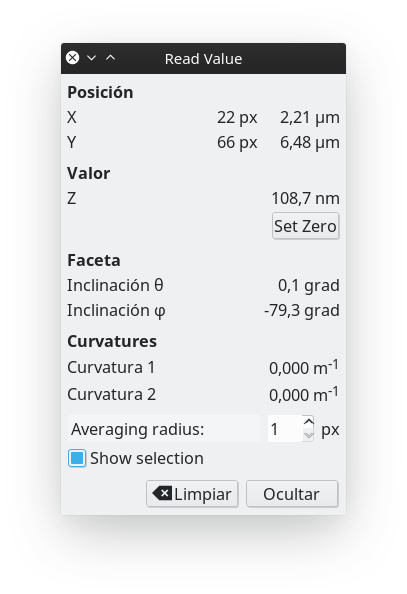
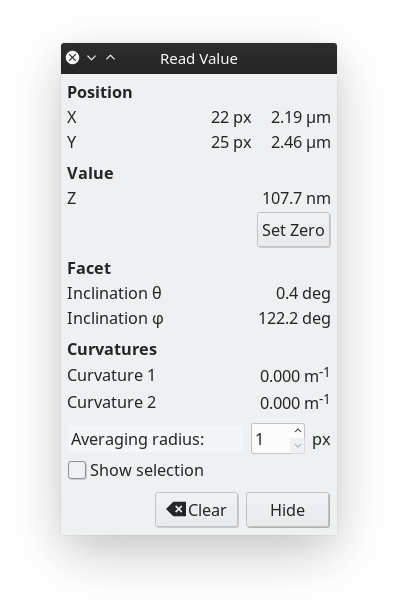
[AFM] Rearrange order. Spanish fig changed. Some rewriting in the theory section (still more to do)

diff --git a/AtomicForceMicroscopy/Report/report.tex b/AtomicForceMicroscopy/Report/report.tex
@@ -28,7 +28,7 @@ Iyán Méndez Veiga\\ \small\texttt{\href{mailto:iyan.mendez-veiga@uni-ulm.de}{i
 \maketitle
 
 \begin{abstract}
-A compact Atomic Force Microscopy (AFM) from Nanosurf company (\href{https://www.nanosurf.com/en/products/naioafm-the-leading-compact-afm}{NaioAFM}) was used to perform measurements of the surface of three samples. Two different operation modes were used: static and tapping mode. Open source software \href{http://gwyddion.net/}{Gwyddion} was used to process the raw data.
+A compact Atomic Force Microscopy (AFM) from Nanosurf company (\href{https://www.nanosurf.com/en/products/naioafm-the-leading-compact-afm}{NaioAFM}) was used to perform measurements of the surface of three samples. Two different operation modes were used: static and tapping mode. Open source software \href{http://gwyddion.net/}{Gwyddion} was used to process the raw data.\\{\color{red} Add Motivation and finings}
 \end{abstract}
 
 \vspace{1.5cm}
@@ -39,13 +39,11 @@ Since it was first developed in 1985 by \emph{Binning} et al., the Atomic Force 
 
 In this report, we will first describe the AFM technique, the two different operation modes that we tried (static and tapping or dynamic mode) and comment the issues we faced. And secondly, we will describe the processing of raw data obtained from the device using the open source software Gwyddion, as well as a general overview of AFM image artifacts, i.e., features which appear in the images that are not present in the original probed object.
 
-\section{Materials and methods}
+\subsection{Theory of AFM}
 
-\subsection{AFM}
+AFM is quite similar to Scanning Tunneling Microscope (STM). The idea is to get 3D images of sample surfaces by using a scanning technique. Main difference between AFM and STM is that AFM can also measure insulators and it is not limited to conductors because the scanning technique does not make use of tunneling currents. Instead, AFM is able to obtain the height by measuring the ultrasmall forces that arise when the tip and the sample surface get very close to each other.
 
-AFM relies on the same idea of Scanning Tunneling Microscope (STM), i.e., using a scanning technique to produce very high resolution, 3D images of sample surfaces. The difference is that instead of measuring tunneling currents, in AFM we measure ultrasmall forces between the tip surface and the sample surface to get the proximity of the tip to the sample, i.e., the height. This allows AFM to measure both conductors and insulators surfaces on an atomic scale.
-
-By ultrasmall forces we mean forces of less than \SI{1}{\nano\N}. How this forces are measured is one of the key aspects of AFM because finding a relation between them and the distance between the tip and the surface will allow us to get a profile of the measured samples. However, this depends on the operation mode.
+The order of magnitude of these forces is less than \SI{1}{\nano\N}. A fixed relation between these forces and the distance between the tip and the sample allows to get the profile of the surface. However, this depends on the operation mode.
 
 \begin{figure}[ht]
 \centering
@@ -92,60 +90,15 @@ Feedback mechanisms and feedback parameters are ubiquitous in our life \cite{nan
 \label{fig:feedback}
 \end{figure}
 
-In our AFM experiment, the feedback parameter that serves as the setpoint in contact mode is the the cantilever deflection. In the tapping mode, it is the cantilever oscillation amplitude. The NaioAFM continuously tries to keep this feedback parameter constant at its setpoint by adjusting the z-piezo to move the cantilever probe up and down. And the resulting z-piezo movements provide the hegight information to create the surface topography.
+The feedback parameter that serves as the setpoint in contact mode is the the cantilever deflection. In the tapping mode, it is the cantilever oscillation amplitude.
 
-The feedback loop is controlled through the proportion-integral-derivative control, also referred as the PID gains. These different gains refer to differences in how the feedback loop adjusts to deviations from the setpoint value, i.e. the error signal. In this experiment, the integral gain is the most important one and can have a dramatic effect on the image quality. The proportional gain might provide slight improvement only after the integral gain has been optimized. And the derivative gain is mainly for samples with tall edges. A diagram of the feedback mechanism of the Z-controller can be seen in Figure .
-
-\begin{figure}[hbt]
-\centering
-\includegraphics[width=0.8\textwidth]{Feedback_NaioAFM}
-\caption{Diagram of the Z-controller of the NaioAFM from the instrument's manual.}
-\label{fig:feedback_z-controller}
-\end{figure}
+The feedback mechanism is a continuous loop, the so-called feedback loop, which is controlled through the proportion-integral-derivative control, also referred as the PID gains. These different gains refer to differences in how the feedback loop adjusts to deviations from the setpoint value, i.e. the error signal. 
 
 If gains are set too low, the PID loop is not able to keep the setpoint accurately. Contrary, if gains are chosen too high, the result will be electrical noise in the image interference from the feedback (see Figure \ref{fig:feedback}). This is due to the fact that compensation for a deviation from the setpoint is larger than the error itself.
 
 Nevertheless, gains are not the only parameters that affect the feedback mechanism. The scan rate and, of course, the setpoint value are very important, too. If the scan rate is too fast, the PID loop will not have sufficient time to adjust the feedback parameter to its setpoint value and the height calculated from the z-piezo movement will deviate from the true topography at slopes and near edges. Very slow rates do not affect the quality of the obtained topography since they are not an issue for the PID loop, but they lead to long acquisition times.
 
 Optimization of both scan rate and PID gains are necessary in order to optimize the feedback loop.
-
-\subsection{NaioAFM}
-
-The NaioAFM by Nanosurf \cite{NaioAFM} is the AFM used in this experiment. As the successor of the Easyscan 2, the NaioAFM is a compact AFM designed for new and inexperienced AFM users. It has a closed scanner compartment that helps with acoustic and air current isolation, stage positioners to adjust your sample. The different parts of the scan head including the spot for the cantilever are shown in the Figure \ref{fig:naioafm}. The NaioAFM was placed on an isolation platform to avoid vibration disturbances.
-
-\begin{figure}[hbt]
-\centering
-\includegraphics[width=0.9\textwidth]{naioafm2}
-\caption{Different parts of the scan head of the NaioAFM instrument \cite{NaioAFM}.}
-\label{fig:naioafm}
-\end{figure}
-
-\subsection{Gwyddion}
-
-NaioAFM saves the data obtained by the samples in \texttt{.nid} files. These files contain 3-dimensional data of the sample: to every point in the (x,y) plane there is an associated height. The height is shown in 2-dimensional heatmaps using a gray colormap. The lighter the gray, the higher the z point is (see Figure \ref{fig:heatmap_rawdata}.)
-
-Thanks to the Gwyddion software, it is possible to partially correct the noisy parts of the pictures manually or by means of some automatic tools. The data can be levelled by subtracting the mean plane; this corrects situations like the one shown in Figure~\ref{fig:artifacts_processing_1}. Secondly, it is possible to align the raws horizontally or vertically evaluating the median of the differences between them (the error that this tool is able to correct is shown in Figure~\ref{fig:artifacts_processing_2}). A third tool often used is the correction of the horizontal scars.
-
-Moreover, the software allow us to model the colour scale by selecting the height range (Figure~\ref{fig:scale_selection}) and to set the 0 of the z-axis.
-
-\begin{figure}[ht]
-\centering
-\begin{subfigure}[b]{0.45\textwidth}
-\includegraphics[width=\textwidth]{heatmap_rawdata}
-\caption{Raw heatmap shown in Gwyddion after importing raw data from NaioAFM without any processing.}
-\label{fig:heatmap_rawdata}
-\end{subfigure}
-\begin{subfigure}[b]{0.45\textwidth}
-\centering
-\includegraphics[width=0.7\textwidth]{scale_selection}
-\caption{Selection of the highnesses interval}
-\label{fig:scale_selection}
-\end{subfigure}
-\caption{Some screenshots of Gwyddion.}
-\label{fig:gwyddion}
-\end{figure}
-
-Finally, Gwyddion allows us to improve the aesthetics of the images, making them more intuitive. First of all, we can select the colour scale which labels the height of the picture. Secondly, the software is able to generate a 3-dimensional pictures of the sample, as we will see in the following section.
 
 \subsection{AFM artifacts}
 When using an AFM, as well as in many other experiments, we may find features which appear in the obtained images that are not present in the observed sample. These are called artifacts \cite{artifacts} and there are four primary sources of artifacts in images measured with AFMs: probes, scanners, image processing and vibrations.
@@ -247,20 +200,78 @@ Vibrations caused by sound waves can also cause artifacts. Even though the NaioA
 \label{fig:artifacts_others}
 \end{figure}
 
-\newpage
-\section{Results and discussion}
-In this section we will describe the analysis of the 3 samples using static and tapping mode. We use two different types of tips, both made of Silicon nitride (Si$_3$N$_4$): \texttt{PPP-CONTR-20} for the static mode and \texttt{Tap190Al-G} for tapping mode.
+\section{Materials and methods}
 
-\subsection{Static mode}
-\subsubsection{Calibration}
-First, we used a \emph{calibration sample} with a known surface in order to test the tip and the software used to obtain our data. This sample was the Calibration Standard \texttt{HS-100MG} and it had 6 different surfaces (see Figure \ref{fig:HS-100MG}).
+\subsection{NaioAFM}
+
+The NaioAFM by Nanosurf \cite{NaioAFM} is the AFM used in this experiment. As the successor of the Easyscan 2, the NaioAFM is a compact AFM designed for new and inexperienced AFM users. It has a closed scanner compartment that helps with acoustic and air current isolation, stage positioners to adjust your sample. The different parts of the scan head including the spot for the cantilever are shown in the Figure \ref{fig:naioafm}. The NaioAFM was placed on an isolation platform to avoid vibration disturbances.
+
+\begin{figure}[hbt]
+\centering
+\includegraphics[width=0.9\textwidth]{naioafm2}
+\caption{Different parts of the scan head of the NaioAFM instrument \cite{NaioAFM}.}
+\label{fig:naioafm}
+\end{figure}
+
+A diagram of the specific feedback mechanism of the Z-controller that the NaioAFM implements can be seen in Figure \ref{fig:feedback_z-controller}.
+
+\begin{figure}[hbt]
+\centering
+\includegraphics[width=0.8\textwidth]{Feedback_NaioAFM}
+\caption{Diagram of the Z-controller of the NaioAFM from the instrument's manual.}
+\label{fig:feedback_z-controller}
+\end{figure}
+
+Using this loop, the NaioAFM continuously tries to keep this feedback parameter constant at its setpoint by adjusting the z-piezo to move the cantilever probe up and down. And the resulting z-piezo movements provide the height information to create the surface topography.
+
+According to the owner's manual from Nanosurf, the integral gain is the most important gain value and can have a dramatic effect on the image quality. The proportional gain might provide slight improvement only after the integral gain has been optimized. And the derivative gain is mainly for samples with tall edges.
+
+Regarding the tips, we use two different types, both made of Silicon nitride (Si$_3$N$_4$): \texttt{PPP-CONTR-20} for the static mode and \texttt{Tap190Al-G} for tapping mode.
+
+\subsection{Calibration sample}
+
+Thes sample used to test and optimize parameters of the NaioAFM was the Calibration Standard \texttt{HS-100MG}, whcih has six different surfaces (see Figure \ref{fig:HS-100MG}).
 
 \begin{figure}[H]
 \centering
-\includegraphics[width=0.3\textwidth]{HS-100MG}
+\includegraphics[width=0.4\textwidth]{HS-100MG}
 \caption{Dimensions of the calibration sample HS-100MG.}
 \label{fig:HS-100MG}
 \end{figure}
+
+\subsection{Gwyddion}
+
+NaioAFM saves the data obtained by the samples in \texttt{.nid} files. These files contain 3-dimensional data of the sample: to every point in the (x,y) plane there is an associated height. The height is shown in 2-dimensional heatmaps using a gray colormap. The lighter the gray, the higher the z point is (see Figure \ref{fig:heatmap_rawdata}.)
+
+It is possible to partially correct the noisy parts of the pictures manually or by means of some automatic tools. The data can be levelled by subtracting the mean plane; this corrects situations like the one shown in Figure~\ref{fig:artifacts_processing_1}. Secondly, it is possible to align the raws horizontally or vertically evaluating the median of the differences between them (the error that this tool is able to correct is shown in Figure~\ref{fig:artifacts_processing_2}). A third tool often used is the correction of the horizontal scars.
+
+Moreover, the software allow us to model the colour scale by selecting the height range (Figure~\ref{fig:scale_selection}) and to set the 0 of the z-axis.
+
+\begin{figure}[ht]
+\centering
+\begin{subfigure}[b]{0.45\textwidth}
+\includegraphics[width=\textwidth]{heatmap_rawdata}
+\caption{Raw heatmap shown in Gwyddion after importing raw data from NaioAFM without any processing.}
+\label{fig:heatmap_rawdata}
+\end{subfigure}
+\begin{subfigure}[b]{0.45\textwidth}
+\centering
+\includegraphics[width=0.7\textwidth]{scale_selection}
+\caption{Selection of the highnesses interval}
+\label{fig:scale_selection}
+\end{subfigure}
+\caption{Some screenshots of Gwyddion.}
+\label{fig:gwyddion}
+\end{figure}
+
+Finally, Gwyddion allows us to improve the aesthetics of the images, making them more intuitive. First of all, we can select the colour scale which labels the height of the picture. Secondly, the software is able to generate a 3-dimensional pictures of the sample, as we will see in the following section.
+
+\section{Results and discussion}
+In this section we will describe the analysis of the three samples using static and tapping mode. 
+
+\subsection{Static mode}
+\subsubsection{Calibration}
+First, we used the \emph{calibration sample} with a known surface in order to test the tip and the software used to obtain our data. 
 
 We fixed the sample in the centre of the AFM and used the camera installed inside our Nanosurf NaioAFM equipment to place the tip in the different surfaces (shown in Figure~\ref{fig:cal_sam}).
 
@@ -273,9 +284,9 @@ We fixed the sample in the centre of the AFM and used the camera installed insid
 
 Once we had chosen the surface which we wanted to analyse, by using the software, we moved the tip as close as possible to the sample, without making them contact. Then, using the \emph{approach mode}, we brought the tip in contact with the surface. This mode uses the setpoint and the feedback mechanism to very slowly put the tip in contact minimizing the risk of breaking the tip.
 
-The key parameter we tried to optimize was the setpoint. In the static mode, the deflection of the cantilever is used as the error signal for the Z-controller feedback mechanism. In the software, the setpoint is express in \si{\nano N} and it is calculated by multiplying the deflection with the spring constant of the selected cantilever, which we had to choose before doing anything. A setpoint too high may damage the tip. We did 8 measurements with setpoints from \SI{2}{\nano N} to \SI{20}{\nano N}. We did not have time to optimize the PID values so we used the default and suggested ones: $\text{I-Gain}=1000$ and $\text{P-Gain}=1000$.
+The key parameter we tried to optimize was the setpoint. In the software, the setpoint is express in \si{\nano N} and it is calculated by multiplying the deflection with the spring constant of the selected cantilever, which we had to choose before doing anything. A setpoint too high may damage the tip. We did eight measurements with setpoints from \SI{2}{\nano N} to \SI{20}{\nano N}. We did not have time to optimize the PID values so we used the default and suggested ones: $\text{I-Gain}=1000$ and $\text{P-Gain}=1000$.
 
-In the following pictures, it is possible to see three different shapes captured from our calibration sample. The obtained height of the patterns was between \SI{107}{\nano m} and \SI{110}{\nano n} after some processing using the read value tool for some random positions of the pictures (see screenshot \ref{fig:read_tool}). It is possible to observe the x-scale on the top of the pictures, the y-scale on the left and the height colour scale on the right.
+In the Figure \ref{fig:static_calibration_grid}, three different shapes captured from our calibration sample are shown. The obtained height of the patterns was between \SI{107}{\nano m} and \SI{110}{\nano n} after some processing using the read value tool for some random positions of the pictures (see screenshot \ref{fig:read_tool}). It is possible to observe the x-scale on the top of the pictures, the y-scale on the left and the height colour scale on the right.
 
 \begin{figure}[H]
 \centering
@@ -300,6 +311,7 @@ In the following pictures, it is possible to see three different shapes captured
 \label{fig:sm_border}
 \end{subfigure}
 \caption{Some pictures of the calibration sample}
+\label{fig:static_calibration_grid}
 \end{figure}
 
 \begin{figure}[H]
@@ -419,7 +431,7 @@ Then we decide to measure only in the lighter part. We took only one measurement
 \end{figure}
 
 \subsection{Tapping mode}
-After changing the tip, from the \texttt{PPP-CONTR-20} to the \texttt{Tap190Al-G}, the first thing we had to do was find the frequency of the cantilever. This was done automatically by the NaioAFM software with the \emph{Frequency Sweep} procedure.
+After changing the tip, the first thing we had to do was find the frequency of the cantilever. This was done automatically by the NaioAFM software with the \emph{Frequency Sweep} procedure.
 
 \subsubsection{Calibration}
 Once again, the first step was the measurement of the calibration sample. For the default gain values ($\text{P-Gain}=1000$ and $\text{I-Gain}=1000$), we did several measurements with different values of the setpoint. In this case, it is not a force (in \si{\nano N}) anymore like in the static mode, but a percentage that represents the threshold in the reduction of the oscillation's amplitude. For example, a setpoint of 60\% means that the Z-controller will move the tip closer to the sample until the vibration amplitude has decreased to 60\% of the vibration amplitude when it is far away from the sample.
